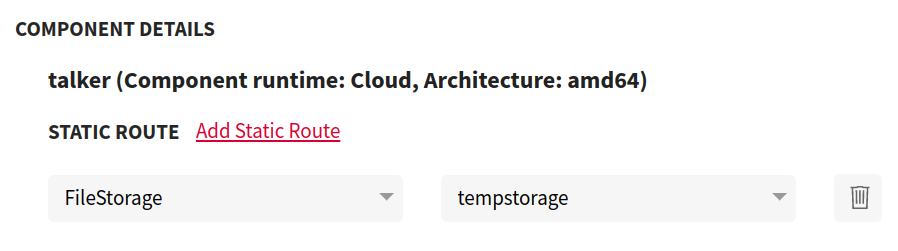
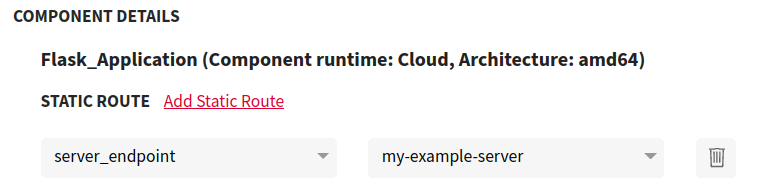
Update pictures

diff --git a/hugo/content/developer-guide/create-software-packages/package-internals.md b/hugo/content/developer-guide/create-software-packages/package-internals.md
@@ -167,12 +167,14 @@ Once created, you cannot edit the name of a static route.
 To bind a static route to an externally exposed endpoint, which is defined in a package, during the deployment process:
 
 1. Click **Add Static Route**.
+![Add static route](/images/dev-guide/create-software-pkgs/pkg-internals/static-routes/add-sr.png?classes=border,shadow&width=40pc)
 2. Select an external network endpoint from the drop-down list.
 3. Select a static route from the drop-down list.
+![Select endpoint static route pair](/images/dev-guide/create-software-pkgs/pkg-internals/static-routes/selection.png?classes=border,shadow&width=40pc)
 
-![Add static route](/images/dev-guide/create-software-pkgs/pkg-internals/static-routes/add-sr.png?classes=border,shadow&width=40pc)
+It creates a mapping between an external network endpoint and a static route. You can unbind a static route from a network endpoint by clicking on the delete icon. In this example, the static route ***my-example-server*** is bound to the network endpoint ***server_endpoint*** as shown below:
 
-It creates a mapping between an external network endpoint and a static route. You can unbind a static route from a network endpoint by clicking on the delete icon. In this example, the static route ***my_example_server*** is bound to the network endpoint ***server_endpoint*** as shown below: 
+![Bind static route](/images/dev-guide/create-software-pkgs/pkg-internals/static-routes/mapping-bind-sr.png?classes=border,shadow&width=40pc)
 
 On deploying the package after binding a static route, the network endpoint URL address becomes deterministic and is a constant. It implies that even if the deployment is stopped and provisioned again with the same static route, the network endpoint URL address remains the same.
 
